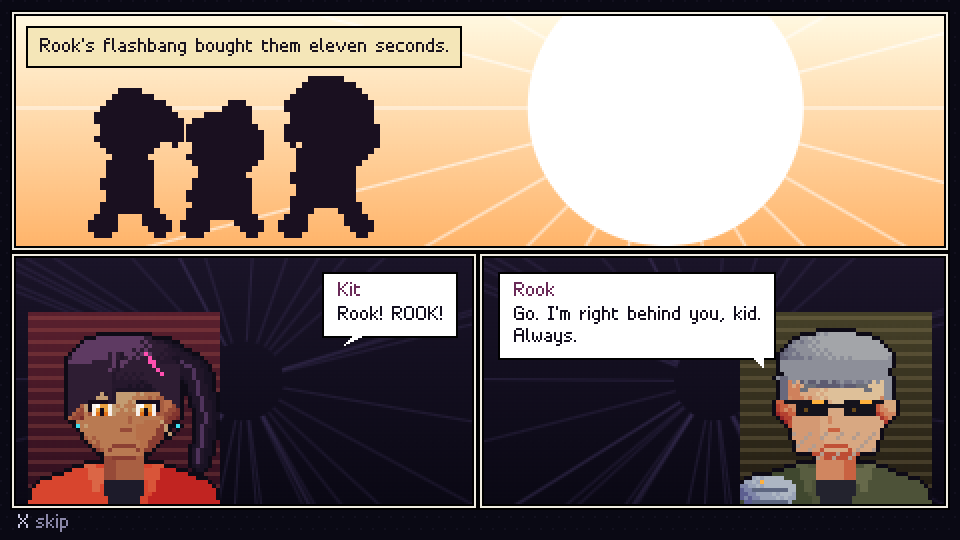
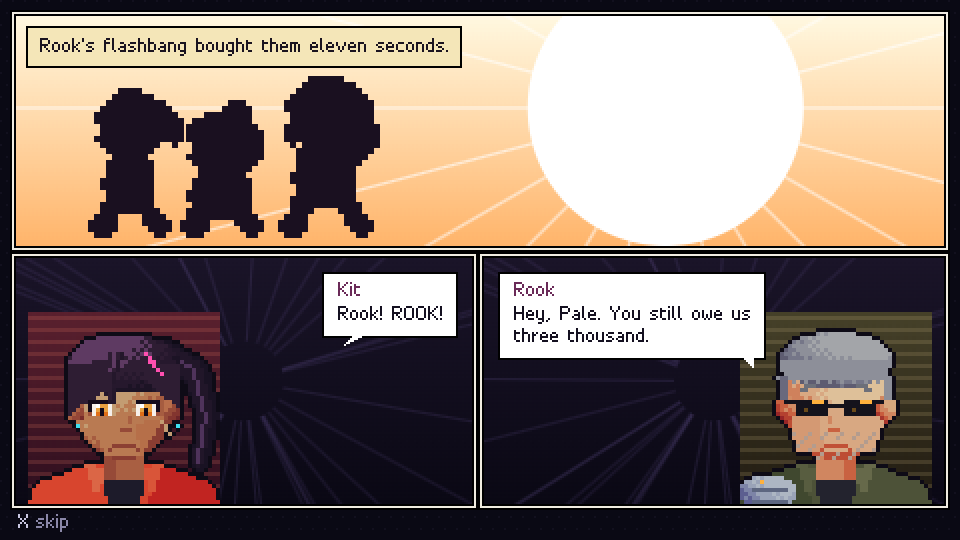
Round 2 narrative: ending that lets the cliffhanger land, Rook's voice, tidy loose ends
- Ending is two pages: the run's results, then (after a beat) "Rook: missing" fades in as
  his card fades out, over Sable's theme instead of the victory fanfare. A page turn brings
  the Chapter Two card ("Deniable Assets", no longer a title that answers the cliffhanger)
  and, last, the alpha thank-you.
- The ending comic no longer repeats the "run" beat: Rook's panel line is new defiance.
- Rook speaks for himself: agrees to the rescue at the pod, and after the Warden tells Kit
  about the lab he walked out of twenty years ago.
- Kit's hungry-punching line cleaned up; the Annex passkey pickup is narrated and Hex
  closes the loop; the betrayal is guarded against re-running; dock guards have lines.
- sj.ending() debug hook; screenshots 24/25 cover the ending pages.

Changed region(s): [[0.5312, 0.5037, 0.8125, 0.6815]]

diff --git a/src/scenes/ending.ts b/src/scenes/ending.ts
@@ -5,7 +5,7 @@ import { autoClose } from '../game/debug';
 import { COMBOS } from '../data/abilities';
 import { ENEMIES } from '../data/enemies';
 import { MEMBERS } from '../data/party';
-import type { Ctx } from '../engine/canvas';
+import { surface, type Ctx } from '../engine/canvas';
 import { drawText } from '../engine/font';
 import { Scene, W, H } from '../engine/game';
 import { formatPlayTime } from '../game/save';
@@ -15,29 +15,43 @@ import { getPortrait } from '../art/portraits';
 
 export class EndingScene extends Scene<void> {
   private t = 0;
+  /** 0: the run so far (and who is missing). 1: next-chapter card and thanks. */
+  private page = 0;
 
   constructor(private playFrames: number) {
     super();
   }
 
   override enter(): void {
-    music('victory_boss', 30);
+    music('sable', 60);
   }
 
   update(): void {
     this.t++;
-    if (autoClose(this.t, 200)) return this.close();
-    if (this.t > 90 && (this.game.input.pressed('confirm') || this.game.input.pressed('cancel'))) {
-      sfx('confirm');
-      this.close();
+    if (autoClose(this.t, 200)) {
+      if (this.page === 0) this.turn();
+      else this.close();
+      return;
     }
+    const ready = this.page === 0 ? MISSING_AT + 60 : 150;
+    if (this.t > ready && (this.game.input.pressed('confirm') || this.game.input.pressed('cancel'))) {
+      sfx('confirm');
+      if (this.page === 0) this.turn();
+      else this.close();
+    }
+  }
+
+  private turn(): void {
+    this.page = 1;
+    this.t = 0;
+    music('title', 90);
   }
 
   render(ctx: Ctx): void {
     ctx.fillStyle = '#07060d';
     ctx.fillRect(0, 0, W, H);
-    const a = Math.min(1, this.t / 40);
-    ctx.globalAlpha = a;
+    if (this.page === 1) return this.renderNext(ctx);
+    ctx.globalAlpha = Math.min(1, this.t / 40);
     drawText(ctx, 'CHAPTER ONE · MILK RUN', W / 2, 16, { align: 'center', color: UI.pink });
     drawText(ctx, 'complete', W / 2, 28, { align: 'center', color: UI.dim });
     drawWindow(ctx, 60, 46, W - 120, 150, { title: 'THE RUN SO FAR' });
@@ -57,18 +71,49 @@ export class EndingScene extends Scene<void> {
     });
     drawDivider(ctx, 70, 134, W - 140);
     const crew = state.party;
+    const gone = Math.max(0, Math.min(1, (this.t - MISSING_AT) / 50));
+    const base = ctx.globalAlpha;
     crew.forEach((id, i) => {
       const x = 80 + i * 82;
       const p = getPortrait(id, 'neutral');
+      // Rook's card fades out as the reveal lands.
+      const k = id === 'rook' ? 1 - gone * 0.75 : 1;
+      ctx.globalAlpha = base * k;
       if (p) ctx.drawImage(p, x, 142, 32, 32);
       drawText(ctx, MEMBERS[id].name, x + 36, 146, { color: MEMBERS[id].color });
       drawText(ctx, `Lv ${state.members[id]?.level ?? 1}`, x + 36, 158, { color: UI.dim });
     });
-    drawText(ctx, 'Rook: {r}missing{/}', W / 2, 182, { align: 'center' });
-    drawText(ctx, 'Thank you for playing the SHADOW JOG alpha.', W / 2, 212, { align: 'center' });
-    drawText(ctx, 'Chapter Two: {c}Rook, Taken{/} — coming soon.', W / 2, 226, { align: 'center', color: UI.dim });
-    if (this.t > 90 && Math.floor(this.t / 25) % 2 === 0) drawText(ctx, 'Press Z to return to the title', W / 2, 250, { align: 'center', color: UI.cyan });
+    ctx.globalAlpha = base;
+    // The one line that matters arrives on its own, after the numbers have had their moment.
+    ctx.globalAlpha = Math.max(0, Math.min(1, (this.t - MISSING_AT) / 50));
+    drawText(ctx, 'Rook: {r}missing{/}', W / 2, 214, { align: 'center' });
     ctx.globalAlpha = 1;
-    void H;
+    if (this.t > MISSING_AT + 60 && Math.floor(this.t / 25) % 2 === 0) drawText(ctx, '▼', W / 2, 250, { align: 'center', color: UI.cyan });
   }
+
+  private renderNext(ctx: Ctx): void {
+    const fade = (from: number) => Math.max(0, Math.min(1, (this.t - from) / 40));
+    ctx.globalAlpha = fade(20);
+    drawText(ctx, 'CHAPTER TWO', W / 2, 96, { align: 'center', color: UI.dim });
+    ctx.globalAlpha = fade(50);
+    drawBig(ctx, 'DENIABLE ASSETS', W / 2, 110, UI.cyan);
+    ctx.globalAlpha = fade(80);
+    drawText(ctx, 'coming soon', W / 2, 138, { align: 'center', color: UI.dim });
+    ctx.globalAlpha = fade(130);
+    drawText(ctx, 'Thank you for playing the Shadow Jog alpha.', W / 2, 206, { align: 'center', color: '#8a87a8' });
+    ctx.globalAlpha = 1;
+    if (this.t > 150 && Math.floor(this.t / 25) % 2 === 0) drawText(ctx, 'Press Z to return to the title', W / 2, 250, { align: 'center', color: UI.cyan });
+  }
+}
+
+/** Frame at which "Rook: missing" starts to fade in on the results page. */
+const MISSING_AT = 110;
+
+/** The bitmap font at 2x, centred. */
+const bigBuf = surface(W, 12);
+function drawBig(ctx: Ctx, text: string, cx: number, y: number, color: string): void {
+  bigBuf.ctx.clearRect(0, 0, W, 12);
+  const w = drawText(bigBuf.ctx, text, 1, 1, { color, shadow: '#1a1020' });
+  ctx.imageSmoothingEnabled = false;
+  ctx.drawImage(bigBuf.canvas, 0, 0, w + 2, 12, Math.round(cx - w - 1), y, (w + 2) * 2, 24);
 }

diff --git a/src/story/chapter1.ts b/src/story/chapter1.ts
@@ -35,7 +35,7 @@ export const introFlat: ScriptFn = async (s) => {
   await s.emote('player', '!');
   await s.say('kit', 'Real work? Like, paying work? Not "hold this bag and don\'t look inside" work?', { face: 'surprised' });
   await s.say('rook', 'The Drowned Saint. Ten minutes. And eat something first. Nobody punches well on an empty stomach.');
-  await s.say('kit', 'I punch great on an empty stomach. I punch angrier.', { face: 'happy' });
+  await s.say('kit', 'I punch fine hungry. I just punch angrier.', { face: 'happy' });
   await s.move('rook', 'lld', { speed: 14 });
   s.regroup();
   s.set('intro');
@@ -258,8 +258,10 @@ export const annexGuards: ScriptFn = async (s) => {
   if (r !== 'win') return;
   s.despawn('sentinel_a');
   s.despawn('sentinel_b');
+  await s.narrate('One of the Sentinels wears a passkey on a lanyard. Hex lifts it off him with two fingers.');
   await s.give('annex_key', 1);
   s.set('annex_key');
+  await s.say('hex', 'One chunk of plastic, acquired. Told you somebody down here had one.');
   await s.say('rook', 'Active security in an abandoned lab. Pale lied.');
   await s.say('hex', 'Pale lied, the lab lied, the lights are lying. Everything down here is lying. I hate it here.', { face: 'sad' });
   s.objective(OBJ.core);
@@ -279,6 +281,7 @@ export const cryopod: ScriptFn = async (s) => {
   await s.say('kit', 'We\'re getting them out.', { face: 'angry' });
   await s.say('rook', 'Kit. Three thousand cred, the rent, Hex\'s debt—');
   await s.say('kit', 'We\'re getting them OUT.', { face: 'angry' });
+  await s.say('rook', '...Yeah. We are. Do it, kid.');
   s.flash('#ffffff', 20);
   s.shake(30, 3);
   s.sfx('phase');
@@ -312,11 +315,17 @@ export const wardenFight: ScriptFn = async (s) => {
   s.music('sable');
   await s.narrate('The spirit rises from the wreck, no longer screaming. It circles Sable once, like a bird, and fades into the pipes.');
   await s.say('sable', 'It thanked you. It said its name. I won\'t repeat it; it was only for us.');
+  await s.say('rook', 'Twenty years ago I stood in a lab like this. Different logo. My old crew got paid, and I walked out past a tank with somebody still in it.');
+  await s.say('kit', 'Rook...', { face: 'sad' });
+  await s.say('rook', 'Not this time. That\'s all.');
   await s.say('hex', 'The lift\'s live. Let\'s never come back here.', { face: 'happy' });
 };
 
 // ------------------------------------------------------------------ Betrayal & end
 export const betrayal: ScriptFn = async (s) => {
+  // Wired to both the dock's onEnter and talking to Pale: it must only ever play once.
+  if (s.flag('betrayal')) return;
+  s.set('betrayal');
   s.music('tension');
   await s.wait(20);
   await s.say('pale', 'Excellent work. You\'ve recovered my property, and in better shape than I dared hope.', { face: 'smirk' });

diff --git a/src/scenes/panels.ts b/src/scenes/panels.ts
@@ -53,7 +53,7 @@ const PAGES: Record<string, Page[]> = {
     [
       { x: 8, y: 8, w: 464, h: 120, bg: 'flash', caption: 'Rook’s flashbang bought them eleven seconds.', from: 'top', shake: true },
       { x: 8, y: 134, w: 228, h: 128, bg: 'dark', portrait: { key: 'kit', face: 'sad' }, speech: { who: 'kit', text: 'Rook! ROOK!' }, from: 'left' },
-      { x: 242, y: 134, w: 230, h: 128, bg: 'dark', portrait: { key: 'rook', face: 'hurt', flip: true }, speech: { who: 'rook', text: 'Go. I’m right behind you, kid. Always.' }, from: 'right' },
+      { x: 242, y: 134, w: 230, h: 128, bg: 'dark', portrait: { key: 'rook', face: 'hurt', flip: true }, speech: { who: 'rook', text: 'Hey, Pale. You still owe us three thousand.' }, from: 'right' },
     ],
     [
       { x: 8, y: 8, w: 464, h: 120, bg: 'canal', caption: 'They came up three wards over, soaked and shaking. Three of them.', from: 'top' },

diff --git a/src/boot.ts b/src/boot.ts
@@ -21,6 +21,7 @@ import { debug } from './game/debug';
 import type { GameState } from './game/state';
 import * as stateMod from './game/state';
 import { applyStage } from './game/stages';
+import { EndingScene } from './scenes/ending';
 import { fieldHooks } from './game/hooks';
 
 declare global {
@@ -60,6 +61,8 @@ export function boot(game: Game, display: Display): void {
     shop: (id: string) => void field()?.runScript((s) => s.shop(id)),
     run: (fn: (s: unknown) => Promise<void>) => void field()?.runScript(fn as never),
     save: (slot: 1 | 2 | 3 | 'auto') => writeSave(slot, game.playFrames),
+    /** The end-of-chapter results and next-chapter card, without the comic pages. */
+    ending: () => void game.run(new EndingScene(game.playFrames)),
   };
   display.mode = settings.scale;
   display.resize();

diff --git a/src/data/maps/annex.ts b/src/data/maps/annex.ts
@@ -169,8 +169,8 @@ export const dock: MapDef = {
   ],
   npcs: [
     { id: 'pale', x: 9, y: 9, dir: 'up', look: LOOKS.pale, name: 'Mr. Pale', talk: betrayal },
-    { id: 'guard1', x: 7, y: 10, dir: 'up', look: LOOKS.corpsec, name: 'K-M Sentinel', talk: ['...'] },
-    { id: 'guard2', x: 11, y: 10, dir: 'up', look: LOOKS.corpsec, name: 'K-M Sentinel', talk: ['...'] },
+    { id: 'guard1', x: 7, y: 10, dir: 'up', look: LOOKS.corpsec, name: 'K-M Sentinel', talk: ['Eyes front. Mr. Pale doesn’t like to be kept waiting.'] },
+    { id: 'guard2', x: 11, y: 10, dir: 'up', look: LOOKS.corpsec, name: 'K-M Sentinel', talk: ['Nothing personal, runners. You’re a line item.'] },
   ],
   onEnter: async (s) => {
     if (s.flag('chapter_end')) return;

diff --git a/e2e/shots.spec.ts b/e2e/shots.spec.ts
@@ -191,3 +191,13 @@ test('23 ending', async ({ page }) => {
   await page.waitForTimeout(1500);
   await shot(page, '23-ending-panels');
 });
+
+test('24 ending results + 25 next chapter', async ({ page }) => {
+  await open(page, 'annex');
+  await sj(page, 'sj.ending()');
+  await page.waitForTimeout(3400);
+  await shot(page, '24-ending-results');
+  await key(page, 'z', 1, 300);
+  await page.waitForTimeout(3600);
+  await shot(page, '25-ending-next');
+});

diff --git a/docs/quality/scorecard.md b/docs/quality/scorecard.md
@@ -35,7 +35,7 @@ Ordered by severity. Tick as done; re-verify each area after its batch lands.
 - [ ] **Field art**: dithered biome transitions on world map; Sinkline water edges/caustics/wet lips; new tent art; bald back-view NPC fix; separate forest tree vs street tree; varied ruins; floor wear.
 - [x] **Battle presentation + feel**: party battle poses (attack/cast/hurt/victory), idle breathing; shake amplitude by hit tier + hitstop; floater easing fix; real shard shatter intro; sewer bg redo; ground from bg for all enemies; dupe variation; victory FX + cheer; status icons with letters; lab readout.
 - [x] **Combat**: ~~sim policy exercises all abilities + all combos~~ (done, coverage test); Hijack uses the machine's own moves; wire `hp_below_half`/`every_3` on trash; party poison tool; Lurker second behaviour shift; remembered weaknesses shown on target cursor.
-- [ ] **Narrative**: ending pacing (thank-you on its own page; don't title Ch.2 "Rook, Taken"); cut double "run"; Rook personal line before the lift; Rook assent at the pod; fix Kit empty-stomach line; annex key acknowledgment; betrayal re-trigger guard; dock guard lines.
+- [x] **Narrative**: ending pacing (thank-you on its own page; don't title Ch.2 "Rook, Taken"); cut double "run"; Rook personal line before the lift; Rook assent at the pod; fix Kit empty-stomach line; annex key acknowledgment; betrayal re-trigger guard; dock guard lines.
 - [ ] **Level design**: second puzzle (Annex relays) + Sinkline breaker; staged Lurker arena; 3–4 world POIs; reward redistribution; dock set dressing; Sinkline signposts; real Rustyard maze; reactive checkpoint guard.
 - [ ] **Audio**: sub levels; footsteps; boss2 drums; drum variety per context; per-location reverb space; battle melody bar 3; per-status SFX; equip SFX.
 

diff --git a/status.md b/status.md
@@ -42,7 +42,7 @@ Don't edit `src/` while a Playwright run is going: Vite hot-reloads and the run 
 
 - Touch controls.
 - Deploy (GitHub Pages or Vercel; ask first).
-- Chapter 2 ("Rook, Taken").
+- Chapter 2 ("Deniable Assets"): getting Rook back.
 
 ## Notes
 
